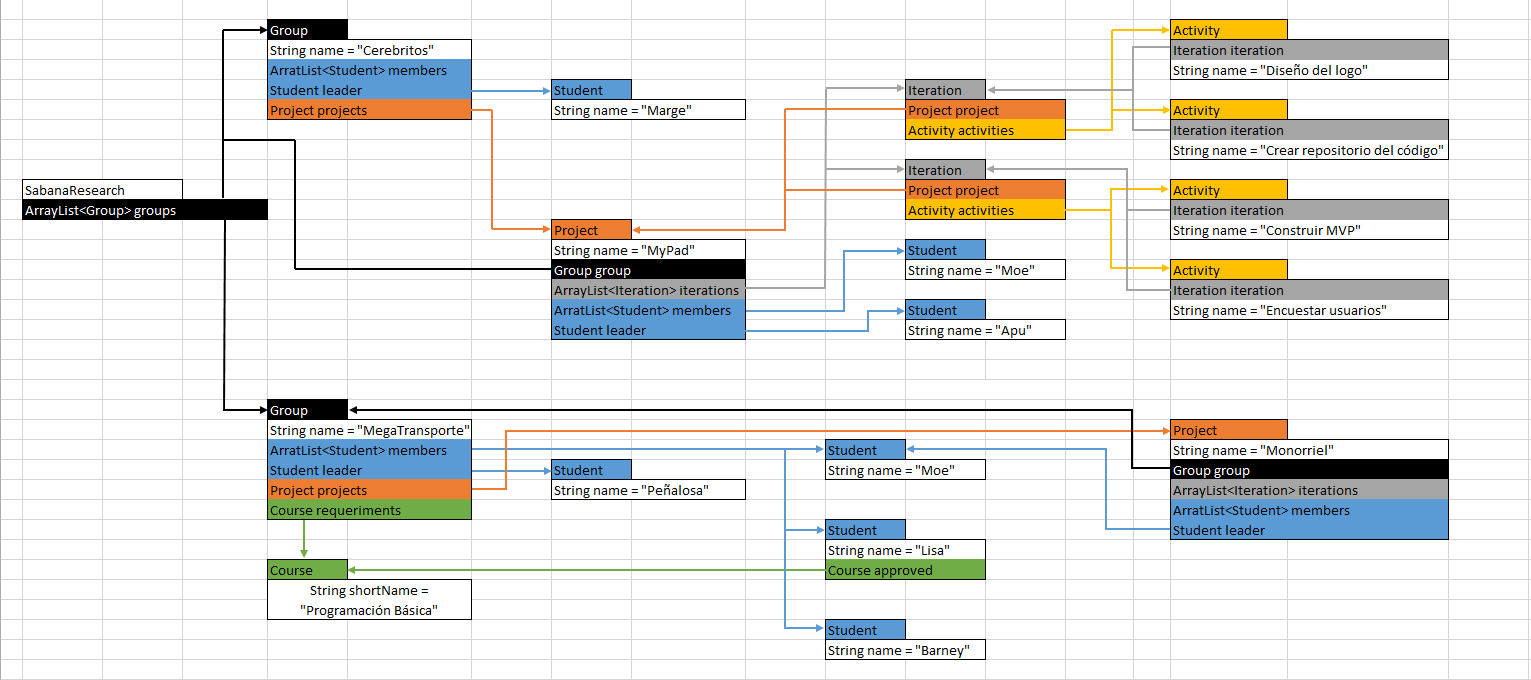
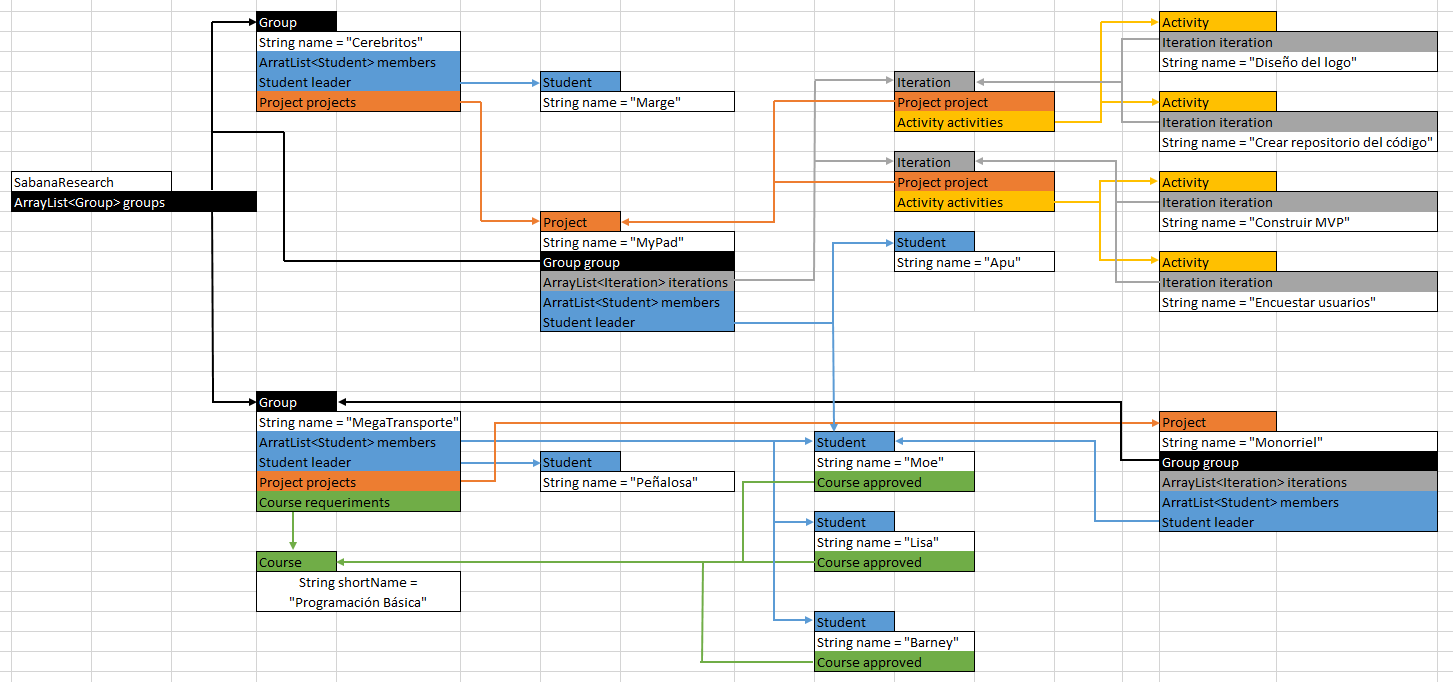
Version 2.7 - Codigo

Changed region(s): [[0.0, 0.0, 1.0, 1.0]]

diff --git a/POOB-TEST-FIRST-SABANA-RESEARCH-1.4.1/src/main/java/entities/Project.java b/POOB-TEST-FIRST-SABANA-RESEARCH-1.4.1/src/main/java/entities/Project.java
@@ -37,10 +37,19 @@ public class Project {
     /**
      * Evaluate if a project is active.
      *
-     * @return false if the project has open activities or the dateEnd is before than the system date.
+     * @return false if the project has not open activities or the dateEnd is before than the system date.
      */
     public boolean isActive() {
-        return false;
+        int i = 0;
+        boolean result = false;
+
+        for(i = 0; i < iterations.size(); i++) {
+            if(dateEnd.isAfter(LocalDate.now()) || iterations.get(i).countOpenActivities() > 0) {
+                result = true;
+            }
+        }
+
+        return result;
     }
 
 

diff --git a/POOB-TEST-FIRST-SABANA-RESEARCH-1.4.1/src/main/java/entities/Activity.java b/POOB-TEST-FIRST-SABANA-RESEARCH-1.4.1/src/main/java/entities/Activity.java
@@ -19,13 +19,23 @@ public class Activity {
         this.iteration.addActivity(this);
     }
 
+    public String getState() {
+        return state;
+    }
+
     /**
      * Evaluate if an activity is active.
      *
      * @return true if the activity is in state pending or active, otherwise return false.
      */
     public boolean isActive() {
-        return false;
+        boolean result = false;
+
+        if(getState().equals(ACTIVE_STATE) || getState().equals(PENDING_STATE)) {
+            result = true;
+        }
+
+        return result;
     }
 
 }

diff --git a/POOB-TEST-FIRST-SABANA-RESEARCH-1.4.1/src/main/java/entities/Group.java b/POOB-TEST-FIRST-SABANA-RESEARCH-1.4.1/src/main/java/entities/Group.java
@@ -17,4 +17,21 @@ public class Group {
         this.projects.add(plan);
     }
 
+    /**
+     * Count one if project is true.
+     *
+     * @return number of projects opens or if the dateEnd is after the system date.
+     */
+
+    public int countActiveProjects(){
+        int n = 0, i = 0;
+
+        for(i = 0; i < projects.size(); i++) {
+            if(projects.get(i).isActive()) {
+                n++;
+            }
+        }
+
+        return n;
+    }
 }

diff --git a/POOB-TEST-FIRST-SABANA-RESEARCH-1.4.1/src/main/java/entities/Iteration.java b/POOB-TEST-FIRST-SABANA-RESEARCH-1.4.1/src/main/java/entities/Iteration.java
@@ -21,4 +21,22 @@ public class Iteration {
         this.activities.add(activity);
     }
 
+    /**
+     * Count one if activity is true.
+     *
+     * @return number of activities opens or pendings.
+     */
+
+    public int countOpenActivities() {
+        int n = 0, i = 0;
+
+        for(i = 0; i < activities.size(); i++) {
+            if(activities.get(i).isActive()) {
+                n++;
+            }
+        }
+
+        return n;
+    }
+
 }
